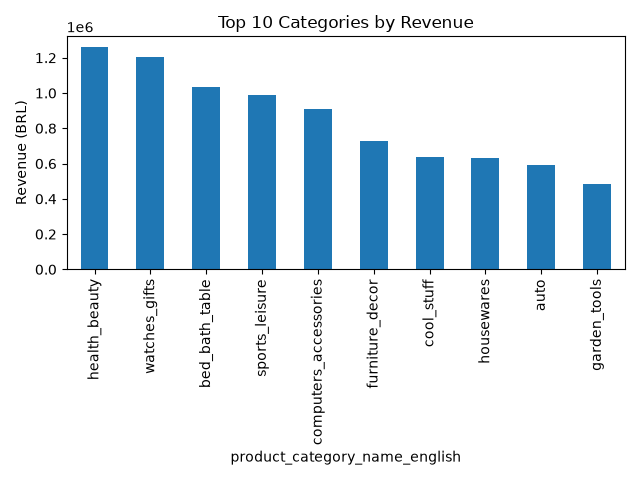
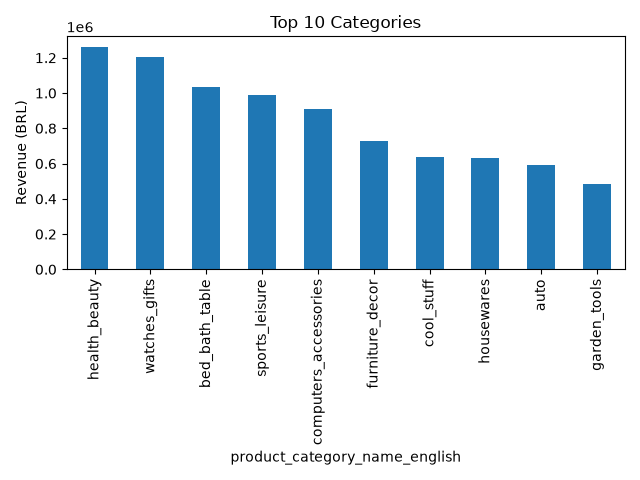
feat(week4): day7 - add README and requirements.txt

Changed region(s): [[0.3438, 0.0312, 0.75, 0.0625]]

diff --git a/week_4/README.md b/week_4/README.md
@@ -1,0 +1,62 @@
+# Week 4 — Olist E-Commerce Data Analysis
+
+Mini ETL project phân tích doanh thu từ dataset Brazilian E-Commerce (Olist).
+
+Pipeline: Extract (CSV) → Transform (clean, merge, aggregate) → Load (report CSV + charts)
+
+## Dataset
+
+Brazilian E-Commerce Public Dataset by Olist (~100K orders, 9 CSV files)
+
+Source: https://www.kaggle.com/datasets/olistbr/brazilian-ecommerce
+
+## Setup
+
+```bash
+git clone <repo-url>
+cd week_4/week4_olist
+
+python3 -m venv .venv
+source .venv/bin/activate
+pip install -r requirements.txt
+```
+
+## Download Data
+
+```bash
+pip install kaggle
+kaggle datasets download olistbr/brazilian-ecommerce --unzip -p data/raw/
+```
+
+## Run
+
+```bash
+python main.py
+```
+
+Output trong folder `output/`:
+- `category_summary.csv` — revenue theo category
+- `revenue_by_category.png` — bar chart top 10 categories
+- `monthly_revenue_trend.png` — line chart trend theo tháng
+
+## Test
+
+```bash
+python -m pytest tests/ -v
+```
+
+## Project Structure
+
+```
+week4_olist/
+├── src/
+│   ├── extract.py       # Load raw CSV
+│   ├── transform.py     # Clean, merge, aggregate
+│   └── report.py        # Save CSV + charts
+├── tests/
+│   └── test_transform.py
+├── data/raw/            # CSV files (not in git)
+├── output/              # Reports + charts
+├── main.py              # Entry point
+└── requirements.txt
+```
